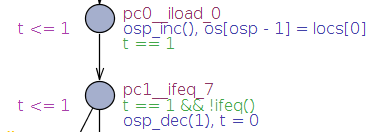
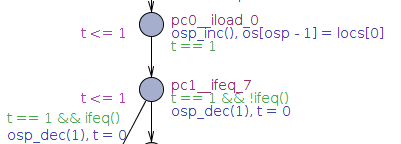
texttt done

Changed region(s): [[0.0, 0.0, 0.9765, 1.0]]

diff --git a/report/documents/uppaalmodel/programSim.tex b/report/documents/uppaalmodel/programSim.tex
@@ -34,10 +34,18 @@ public static int foo ( int 0 ) ;
 \end{minipage}
 
 \begin{figure}
-\includegraphics[width=\textwidth]{reportExamples/demo1}
-\includegraphics[width=\textwidth]{reportExamples/demo2}
-\caption{Auto generated model, Example of \texttt{foo} method}
-\label{fig:generated_wip}
+\begin{subfigure}{\textwidth}
+	\includegraphics[width=\textwidth]{reportExamples/demo1}
+	\caption{Method call in \texttt{main}.}
+\end{subfigure}
+\begin{subfigure}{\textwidth}
+	\includegraphics[width=\textwidth]{reportExamples/demo2}
+	\caption{the method \texttt{foo}.}
+
+\end{subfigure}
+
+\caption{Auto generated model, Example of \texttt{foo} method.}
+\label{fig:fooMethod}
 \end{figure}
 
 
@@ -63,19 +71,19 @@ public static int foo ( int 0 ) ;
 
 \Cref{fig:uppaal1} shows how two Java Bytecode instructions are represented in UPPAAL. On the left we see the Java bytecode, the first line with program counter 0 we have the \texttt{iload 0} instruction. \texttt{iload 0} pushes a integer to the top of the operation stack from local variables at position zero, then increments the operand stack pointer and program counter.\\\\
 %uppaal location edge
-In UPPAAL the location \texttt{pc0\_iload\_0} represents \texttt{iload 0}. The UPPAAL model is seen in \Cref{fig:uppaal1}b. We simulate execution time with the location invariant \texttt{t <= 1}  and guard \texttt{t == 1} on the edge leading to the next location. The guard is found right below the location name right of the edge and invariant is to the left of the edge. In this sample we defined the execution time as 1 time unit.\\\\
-In the update on the edge seen below the guard, we simulate the data flow by assigning the value of the local variable \texttt{loc0} to the top of the operand stack \texttt{os} represented by operand stack pointer \texttt{osp}. \texttt{osp} is incremented as the operand stack grows, the increment of the program counter is simulated by the edge itself.
+In UPPAAL the location \UPP{pc0\_iload\_0} represents \texttt{iload 0}. The UPPAAL model is seen in \Cref{fig:uppaal1}b. We simulate execution time with the location invariant \UPP{t <= 1} and guard \UPP{t == 1} on the edge leading to the next location. The guard is found right below the location name right of the edge and invariant is to the left of the edge. In this sample we defined the execution time as 1 time unit.\\\\
+In the update on the edge seen below the guard, we simulate the data flow by assigning the value of the local variable \UPP{loc0} to the top of the operand stack \UPP{os} represented by operand stack pointer \UPP{osp}. \UPP{osp} is incremented as the operand stack grows, the increment of the program counter is simulated by the edge itself.
 
 \subsubsection{Jumps and Branches}
-For the majority of instructions the program counter is set to the next instruction after execution, but for a jump with \texttt{goto a} the edge goes to the instruction with the program counter corresponding with value of \texttt{a}.
+For the majority of instructions the program counter is set to the next instruction after execution, but for a jump with \texttt{goto a} the edge goes to the instruction with the program counter corresponding with value of \texttt{a} as seen in \Cref{fig:fooMethod}.
 
-Conditionals such as \texttt{if\_cmpeq a}\ch{stream line casing of texttts} is the only instruction that is modelled by a location having two outgoing edges , one to the next instruction and one for the program counter of a. On these edges the guard is used to determine which of the edges is to be traversed. \kri{insert example}
+Conditionals such as \texttt{if\_cmpeq a} is modelled by a location having two outgoing edges, see \Cref{uppaal1}, one to the next instruction and one for the program counter of with and offset of \texttt{a}. On these edges the guard is used to determine which of the edges is to be traversed.
 
 \subsubsection{The Operand Stack, Local Variables and the Heap}
 To simulate the operand stack, we use an operand stack pointer to point at the next free position in an array. Local variables and the heap are both represented as arrays in the UPPAAL model, but they do not use an explicit pointer to access them since access to these are not necessarily performed in a top-down manner as with the operand stack.
 
 \subsection{Method Calls}\label{subsubsec:method}
-Method calls covers the Java bytecode instructions:~\texttt{invokestatic} for static calls, \texttt{invokespecial} for class constructors and private calls, and \texttt{invokevirtual} virtual calls. To illustrate how these instructions are modelled, we use the Java code sample in \cref{lst:virtual}.
+Method calls covers the Java bytecode instructions: \texttt{invokestatic} for static calls, \texttt{invokespecial} for class constructors and private calls, and \texttt{invokevirtual} virtual calls. To illustrate how these instructions are modelled, we use the Java code sample in \cref{lst:virtual}.
 \begin{lstlisting}[caption={\texttt{Bclass} extends \texttt{Aclass}, \texttt{Aclass} implements the methods foo and bar, and \texttt{Bclass} overwrites foo.}, label={lst:virtual}]
 public class Virtual{
   public Aclass a;
@@ -134,7 +142,7 @@ The third is the edge from the \texttt{return} instruction, seen in \cref{fig:in
 \subsubsection{Virtual Methods}
 Virtual methods are similar to static methods in regards to representation in the method template for caller and callee, but instead of handling control directly to callee method templates, a template responsible for resolving the virtual call is inserted for this purpose.
 \cref{fig:invokevirtual} is the resolver template generated for the code in \cref{lst:virtual}, there is a total of three virtual methods in this sample and the resolver has a waiting location for each.\\\\
-Every class is mapped to an integer $clID$ and an array, $classHierarchy$, represents the class hierarchy of the program. The initial location \texttt{Invoke} waits for a synchronisation, after which the location \texttt{Resolver} has an outgoing edge for every possibility, in this sample that is five. There are essentially always three distinct possibilities 
+Every class is mapped to an integer $clID$ and an array, $classHierarchy$, represents the class hierarchy of the program. The initial location \UPP{Invoke} waits for a synchronisation, after which the location \UPP{Resolver} has an outgoing edge for every possibility, in this sample that is five. There are essentially always three distinct possibilities 
 
 \begin{itemize}
 \item There are no methods and no super where $clID == 0$.
@@ -142,7 +150,7 @@ Every class is mapped to an integer $clID$ and an array, $classHierarchy$, repre
 \item There are no methods but there is a super class, then assign $clID = classHierarchy[clID]$ and try again.
 \end{itemize}
 
-This is based on \texttt{methodLookup} from the \texttt{invokevirtual} semantics \cref{app:invokevirtual}.
+This is based on $methodLookup$ from the \texttt{INVOKEVIRTUAL} semantics \cref{app:invokevirtual}.
 
  
 \begin{figure}[H]

diff --git a/report/documents/uppaalmodel/faultSim.tex b/report/documents/uppaalmodel/faultSim.tex
@@ -16,7 +16,7 @@ Every instruction in the Java bytecode is represented by a location, and has an 
 
 \subsection{Data Faults}
 % locals and opstack
-To introduce data fault for the operand stack a special template selects when a fault should be introduced into the operand stack. This happens in the same way as in the \textit{program counter} fault described earlier, illustrated in \cref{fig:faultTime}. The selected value is between $0$ and the maximum possible runtime of the program. \cref{fig:opstackFlip} shows how a method called \texttt{getTriesRemaining}, in which a bit flip in the operand stack occurs. Edges going back to the locations \texttt{pc0\_iconst\_2} and \texttt{pc0\_iconst\_2} are where the faults are introduced, these are added by the solution and are not a part of an unaltered model of a program. The edges have a guard, $faultTime \leq globalClock$, determined by the special template, which only allows a fault to happen if the program execution has executed for a certain amount of time. The fault itself is introduced by the update $os\lbrack osPos \rbrack\:\hat{}= 1 \ll osBitPos$, which flips bit \texttt{osBitPos} of value \texttt{osPos} in the operand stack\ch{ref to description of how we represent operand stack here?}. \texttt{osBitPos} is a random value between $0$ and $7$, which denotes which bit should be flipped. \texttt{osPos} is a random value between $0$ and the maximum size of the operand stack. After a fault has been introduced, the variable \texttt{faultTime} is set to a value higher than the maximum value of the global clock, to ensure only one fault happens per simulation.\\\\
+To introduce data fault for the operand stack a special template selects when a fault should be introduced into the operand stack. This happens in the same way as in the \textit{program counter} fault described earlier, illustrated in \cref{fig:faultTime}. The selected value is between $0$ and the maximum possible runtime of the program. \cref{fig:opstackFlip} shows how a method called \texttt{getTriesRemaining}, in which a bit flip in the operand stack occurs. Edges going back to the locations \texttt{pc0\_iconst\_2} and \texttt{pc0\_iconst\_2} are where the faults are introduced, these are added by the solution and are not a part of an unaltered model of a program. The edges have a guard, $faultTime \leq globalClock$, determined by the special template, which only allows a fault to happen if the program execution has executed for a certain amount of time. The fault itself is introduced by the update $os\lbrack osPos \rbrack\:\hat{}= 1 \ll osBitPos$, which flips bit \UPP{osBitPos} of value \UPP{osPos} in the operand stack\ch{ref to description of how we represent operand stack here?}. \UPP{osBitPos} is a random value between $0$ and $7$, which denotes which bit should be flipped. \UPP{osPos} is a random value between $0$ and the maximum size of the operand stack. After a fault has been introduced, the variable \UPP{faultTime} is set to a value higher than the maximum value of the global clock, to ensure only one fault happens per simulation.\\\\
 Our approaches to modelling faults in the operand stack, heap and local variables are similar and only one of them is therefore described.\ch{is this enough or should we tell more about how the heap modelling works?}
 % % % % %
 \begin{figure}[H]

diff --git a/report/documents/introduction/brdup.tex b/report/documents/introduction/brdup.tex
@@ -1,5 +1,5 @@
 \paragraph{Code Duplication}as described by~\cite[p. 12]{javasec} is a countermeasure which protects against corruption of data used for branching at execution time, such as local variables. It offers protection against a change in a program's control flow, by duplicating instructions which are used to retrieve values which affect branching.\\\\
-An example could be some original program, as the one in~\cref{lst:dup0}, which loads two values from local variables (line 1-2), pushes them onto the operand stack and compares them. If the two values are the same, a jump is performed to a code region with sensitive code (line 8-9), which approves a transaction on a credit card. Now, assume that a bit flip has occured in the flag set by the comparison in line 3. Before the flip, the rejection code would have been executed, but after the flip, the \texttt{acceptTransaction()} is executed. When code duplication is implemented, as in~\cref{lst:dup1}, redundant instructions are inserted. In line 8-9, the values of the local variables are loaded again and pushed onto the operand stack. Afterwards, the compare flag is set again, and another jump is made to the sensitive code region in lines 15-16. It should be noted that this particular duplication only protects a \textit{single} bit flip in the original portion of the code. If a second bit flip occurs in the duplicated part of the code to affect the jump, the program can still execute \texttt{acceptTransaction()}, even though it should not.
+An example could be some original program, as the one in~\cref{lst:dup0}, which loads two values from local variables (line 1-2), pushes them onto the operand stack and compares them. If the two values are the same, a jump is performed to a code region with sensitive code (line 8-9), which approves a transaction on a credit card. Now, assume that a bit flip has occured in the flag set by the comparison in line 3. Before the flip, the rejection code would have been executed, but after the flip, the \texttt{acceptTransaction} is executed. When code duplication is implemented, as in~\cref{lst:dup1}, redundant instructions are inserted. In line 8-9, the values of the local variables are loaded again and pushed onto the operand stack. Afterwards, the compare flag is set again, and another jump is made to the sensitive code region in lines 15-16. It should be noted that this particular duplication only protects a \textit{single} bit flip in the original portion of the code. If a second bit flip occurs in the duplicated part of the code to affect the jump, the program can still execute \texttt{acceptTransaction}, even though it should not.
 
 \begin{minipage}{\linewidth}
 \begin{lstlisting}[caption={Original program without code duplication implemented. The code is written in \jcl. Note that for simplicity, the numbers in the left side are line numbers and do not denote the program counter values.}, label={lst:dup0}]

diff --git a/report/documents/related/install.tex b/report/documents/related/install.tex
@@ -1,2 +1,2 @@
-The \texttt{install()} method creates an instance of the \texttt{Applet} subclass~\cite[p. 65]{java_card_spec}. Depending on the application of the card, this method is called \textit{once} in a card's life time, from either the manufacturer's or card distributor's side. Examples of such cards are credit cards and SIM cards, since it could pose a security risk to allow other applets than those intended to be on the card, to be installed.\\\\
-The install method should perform all necessary initialisations and must perform a call to the \texttt{register()} method. If the call to \texttt{register()} is not performed successfully, or an exception is thrown before the call, the installation is not considered successful. If the installation fails, the Java Card runtime environment performs the necessary clean up actions when control is returned to it. After a successful installation, the applet can be selected with the \texttt{select APDU} command. APDUs are described in~\cref{subsec:apdu}.
+The \texttt{install} method creates an instance of the \texttt{Applet} subclass~\cite[p. 65]{java_card_spec}. Depending on the application of the card, this method is called \textit{once} in a card's life time, from either the manufacturer's or card distributor's side. Examples of such cards are credit cards and SIM cards, since it could pose a security risk to allow other applets than those intended to be on the card, to be installed.\\\\
+The install method should perform all necessary initialisations and must perform a call to the \texttt{register} method. If the call to \texttt{register} is not performed successfully, or an exception is thrown before the call, the installation is not considered successful. If the installation fails, the Java Card runtime environment performs the necessary clean up actions when control is returned to it. After a successful installation, the applet can be selected with the \texttt{select APDU} command. APDUs are described in~\cref{subsec:apdu}.

diff --git a/report/documents/introduction/probability.tex b/report/documents/introduction/probability.tex
@@ -1,6 +1,6 @@
 \section{Fault Probabilities}
 As mentioned in~\Cref{sec:faultsce}, the time a bit flip is performed, matter in terms of how much of the system can be affected, e.g. at run-time versus when a card is powered off. Logically, a greater attack surface equals a greater probability of affecting a piece of memory that will cause a desirable outcome for an attacker. An example could be a method which is only runs once compared to a method which might be called ten times. Disregarding the size of the methods and their memory usage, the second method would have a probability ten times the that of the method which is only called once, to be hit by a bit flip. It should be noted that even if a method has a greater probability of being hit by a bit flip, it is not guarantee that there is a greater chance that the bit flip will bring the card into a situation compromising security. This depends on the nature of the method.\\\\
 % install()
-We have decided to not perform any simulation of bit flip attacks in the \texttt{install()} method, described in~\cref{sec:jc}, and protection against these. The reason for this is, that for cards like credit cards, the method is only executed once and the execution happens at the manufacturer or distributor of the card.
+We have decided to not perform any simulation of bit flip attacks in the \texttt{install} method, described in~\cref{sec:jc}, and protection against these. The reason for this is, that for cards like credit cards, the method is only executed once and the execution happens at the manufacturer or distributor of the card.
 
 %

diff --git a/report/documents/rewriting/sawja.tex b/report/documents/rewriting/sawja.tex
@@ -1,3 +1,3 @@
 \subsection{Sawja's Call Graph Representation}
-The tool Sawja, described in \cref{sec:sawja} can be used to automate the call graph integrity countermeasure. An analysis of the call graph shows which methods are callable, which should have unique ids and which should be grouped as is the case in \cref{lst:javaorig}. Since it is not possible to know which of the \texttt{bar()} methods are called, the caller id which they check when called from \texttt{foo()} are the same.\\\\
+The tool Sawja, described in \cref{sec:sawja} can be used to automate the call graph integrity countermeasure. An analysis of the call graph shows which methods are callable, which should have unique ids and which should be grouped as is the case in \cref{lst:javaorig}. Since it is not possible to know which of the \texttt{bar} methods are called, the caller id which they check when called from \texttt{foo} are the same.\\\\
 In addition, the control flow integrity countermeasure can also be automated by analysing the call graph. It enables the flag counter to be correctly incremented through a call graph analysis, which will then be used to determine the flag values to check before and after each method call.
